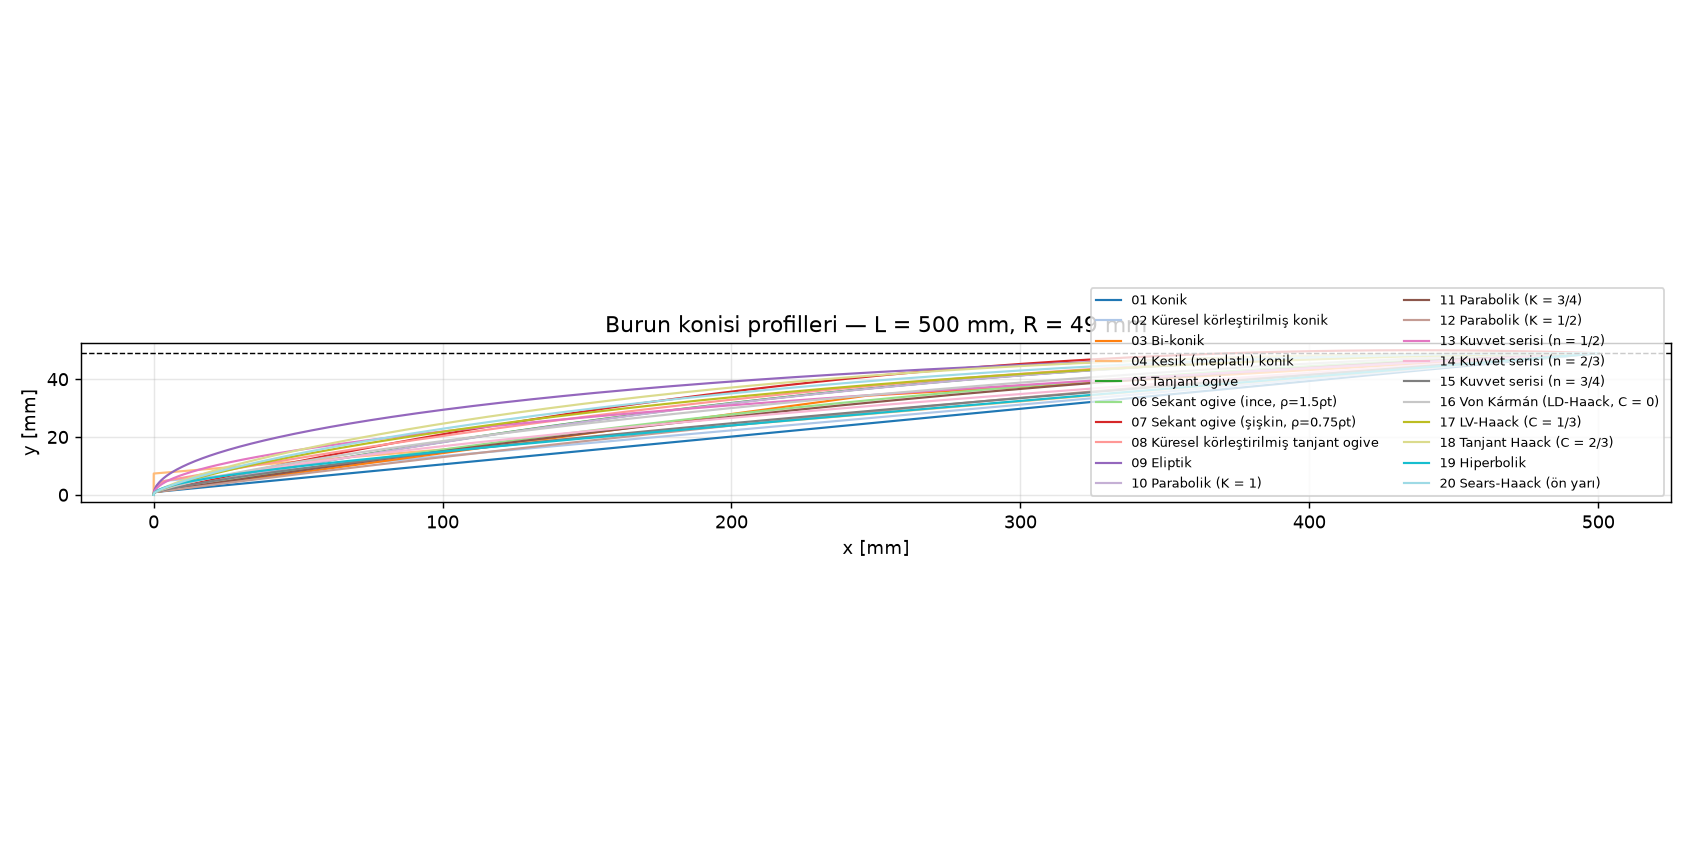
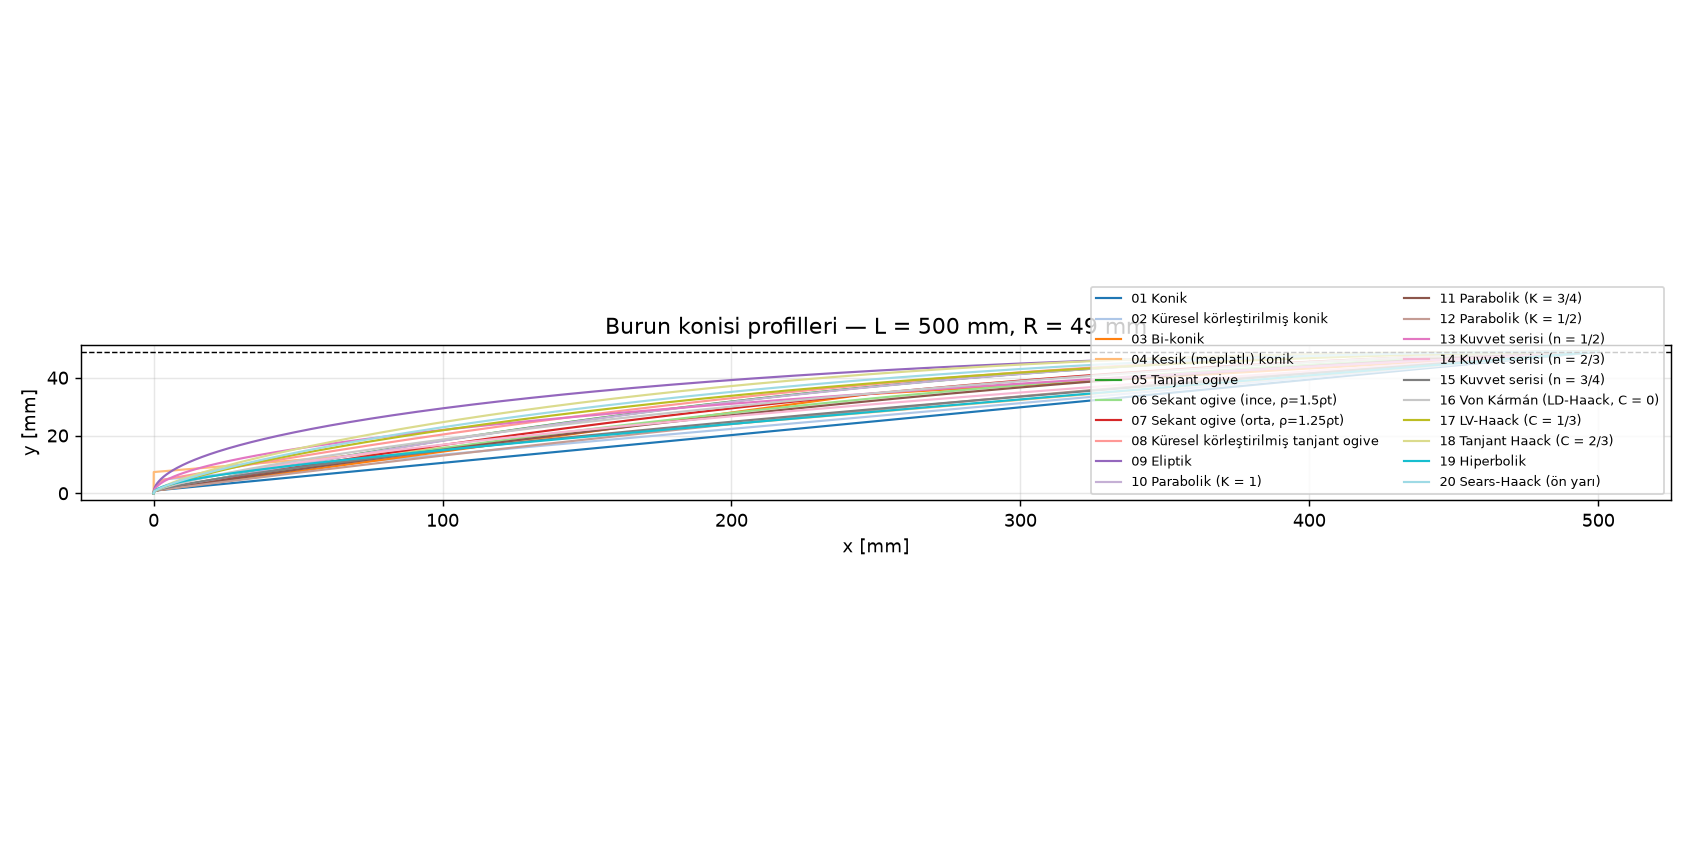
Profil 07: şişkin sekant ogive yerine ρ = 1,25ρt sekant ogive
Şişkin sekant ogive (ρ = 0,75ρt) tanımı gereği R'yi ~1 mm aşıyordu.
Kullanıcı kararıyla R'yi aşmayan orta incelikte sekant ogive kullanılıyor.
80/80 geometri geçerli, R'yi aşan yok.

Changed region(s): [[0.0308, 0.3385, 0.9846, 0.6462], [0.0308, 0.4923, 0.0615, 0.5231]]

diff --git a/CLAUDE.md b/CLAUDE.md
@@ -39,7 +39,8 @@ Kurallar:
 - `xtc, x0c` (02) ve `xto, x0o` (08): `rn` küresinin koni/ogive'e teğet noktası ve küre merkezi — kodda analitik olarak hesaplanır.
 - Profil ID formatı: `P{NN}_L{LLL}` (ör. `P16_L300`). Bu ID SQLite'taki `nose_cone_id`'dir.
 - Geometri yalnızca `src/common/geometry.py` ile üretilir (`build_geometry` / `build_all`). Serbest parametre: `nose_params.json` → `selected["L200"]` varsa o, yoksa `provisional`.
-- Doğrulanmış durum (2026-11-23): 80/80 geometri geçerli, uç sınıflandırması beklenenle birebir; uzunluk hatası < 0,001 µm.
+- Doğrulanmış durum (2026-11-23): 80/80 geometri geçerli, uç sınıflandırması beklenenle birebir; uzunluk hatası < 0,001 µm; R'yi aşan geometri yok.
+- **Kullanıcı kararı:** Orijinal 07 (şişkin sekant ogive, ρ = 0,75ρt) R'yi ~1 mm aştığı için **ρ = 1,25ρt orta sekant ogive** ile değiştirildi (`inputs/raw/Nosecone_eq.txt` güncellendi; kökteki orijinal dosya değiştirilmedi). ρ < ρt olan sekant ogive'ler R'yi aşar — kullanılmaz.
 
 ### Ön optimizasyonla belirlenecek serbest parametreler (Claude belirler)
 | Profil | Parametre | Aday aralığı (başlangıç) | Kısıt |
